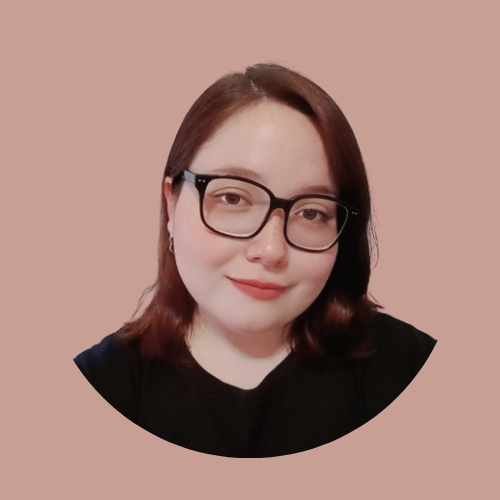
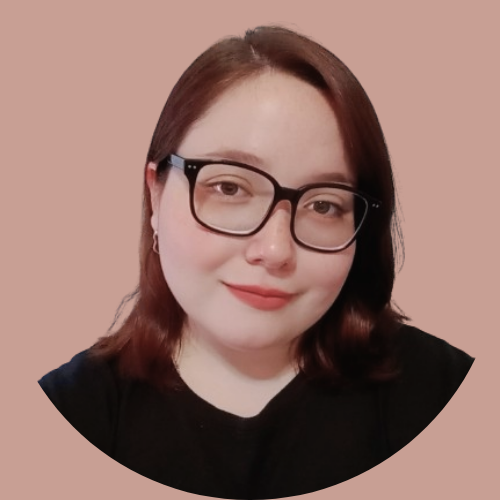
Cambios index

diff --git a/css/styles.css b/css/styles.css
@@ -265,14 +265,18 @@ footer .mensaje-footer {
   }
 }
 .about-wrapper .about-left .about-left-content {
+  border-radius: 10px;
+  width: 384px;
   box-shadow: 0px 0px 18px -1px rgba(0, 0, 0, 0.39);
   -webkit-box-shadow: 0px 0px 18px -1px rgba(0, 0, 0, 0.39);
   -moz-box-shadow: 0px 0px 18px -1px rgba(0, 0, 0, 0.39);
 }
 .about-wrapper .about-left .about-left-content > div {
-  background: #a675a1;
-  padding: 4rem 4rem 2.5rem 5rem;
+  background: #BDB8D8;
+  padding: 2.5rem 4rem 1rem 5rem;
   text-align: center;
+  height: 498px;
+  border-radius: 10px 10px 0 0;
 }
 @media (max-width: 420px) {
   .about-wrapper .about-left .about-left-content > div {

diff --git a/scss/pages/index.scss b/scss/pages/index.scss
@@ -17,13 +17,17 @@
     }
     .about-left-content {
       > div {
-        background: $other-bg-color;
-        padding: 4rem 4rem 2.5rem 5rem;
+        background: $about-me-card-bg-hover;
+        padding: 2.5rem 4rem 1rem 5rem;
         text-align: center;
+        height: 498px;
+        border-radius: 10px 10px 0 0;
         @media (max-width: 420px) {
           padding: 1rem 0.5rem 2.5rem;
         }
       }
+      border-radius: 10px;
+      width: 384px;
       box-shadow: 0px 0px 18px -1px rgba(0, 0, 0, 0.39);
       -webkit-box-shadow: 0px 0px 18px -1px rgba(0, 0, 0, 0.39);
       -moz-box-shadow: 0px 0px 18px -1px rgba(0, 0, 0, 0.39);

diff --git a/index.html b/index.html
@@ -36,7 +36,7 @@
           <div>
             <div class="shadow">
               <div class="about-img">
-                <img src="../images/foto-about-me-perfil.png" alt="Foto para el perfil">
+                <img src="../images/foto-about-me-perfil.png" alt="Foto perfil">
               </div>
             </div>
             <h1>Mariana Inés<br>Silvetti López</h1>
